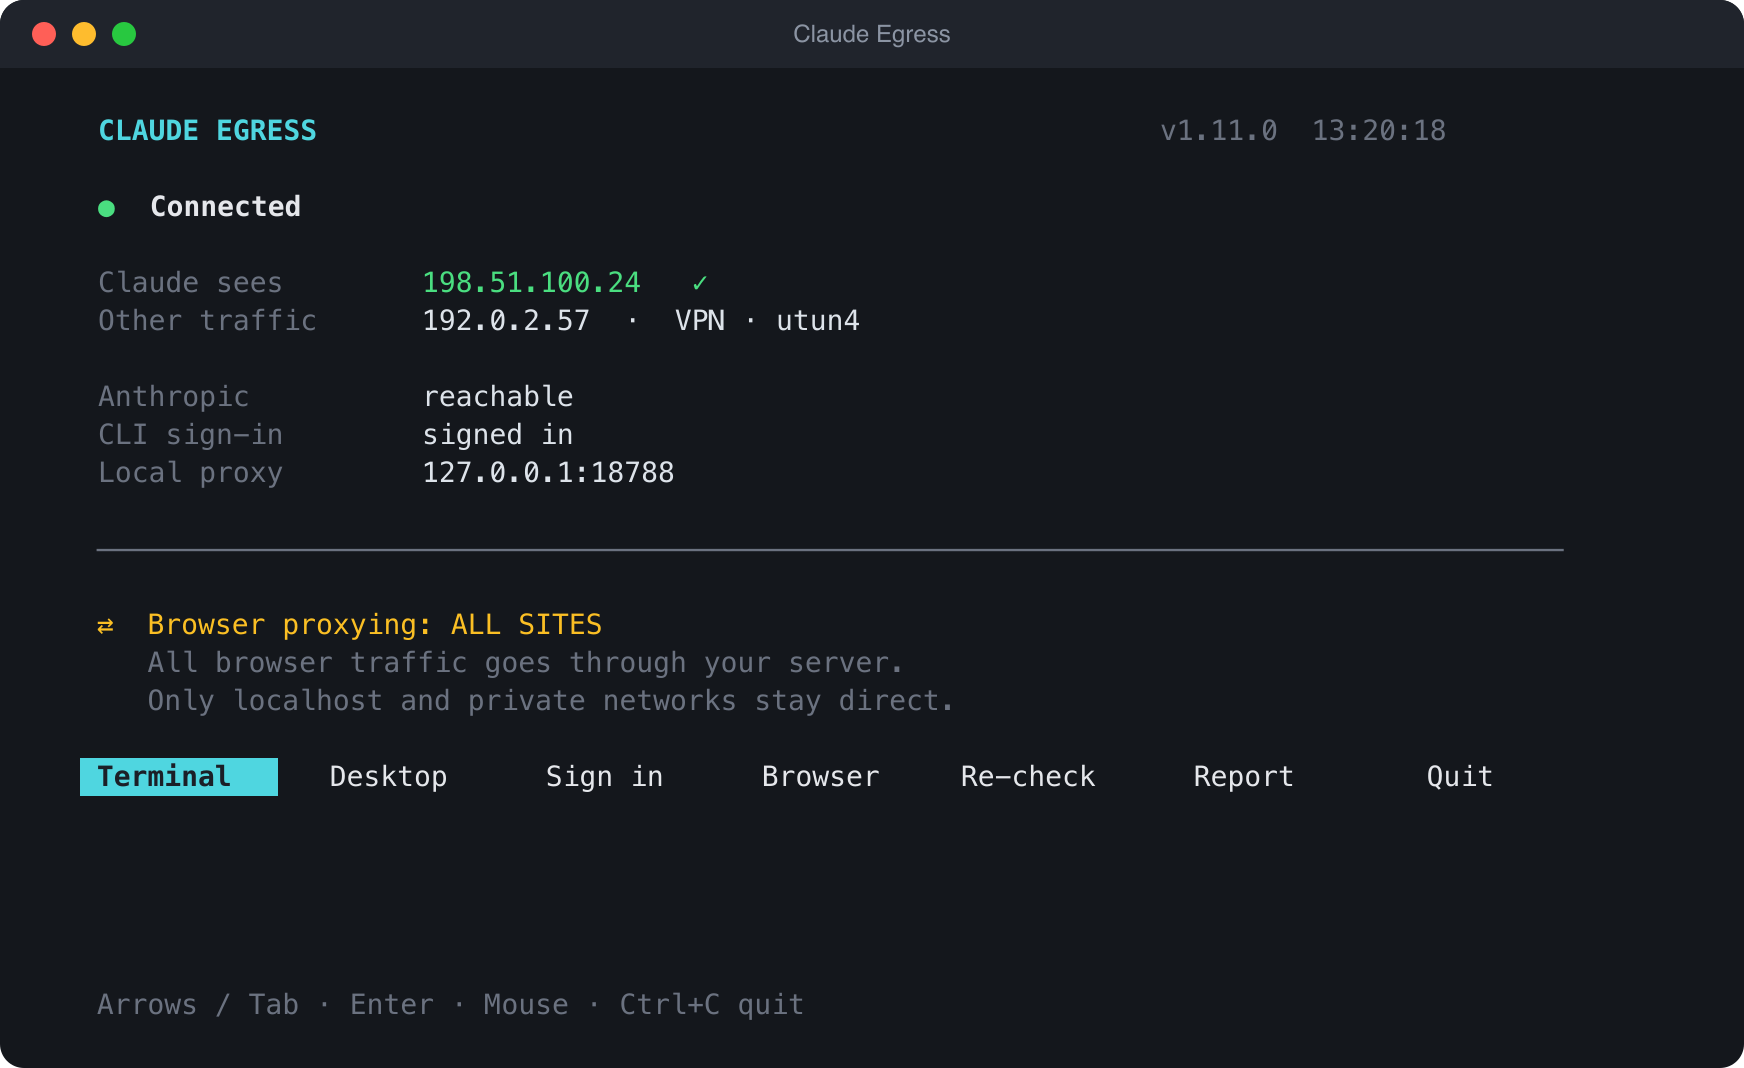
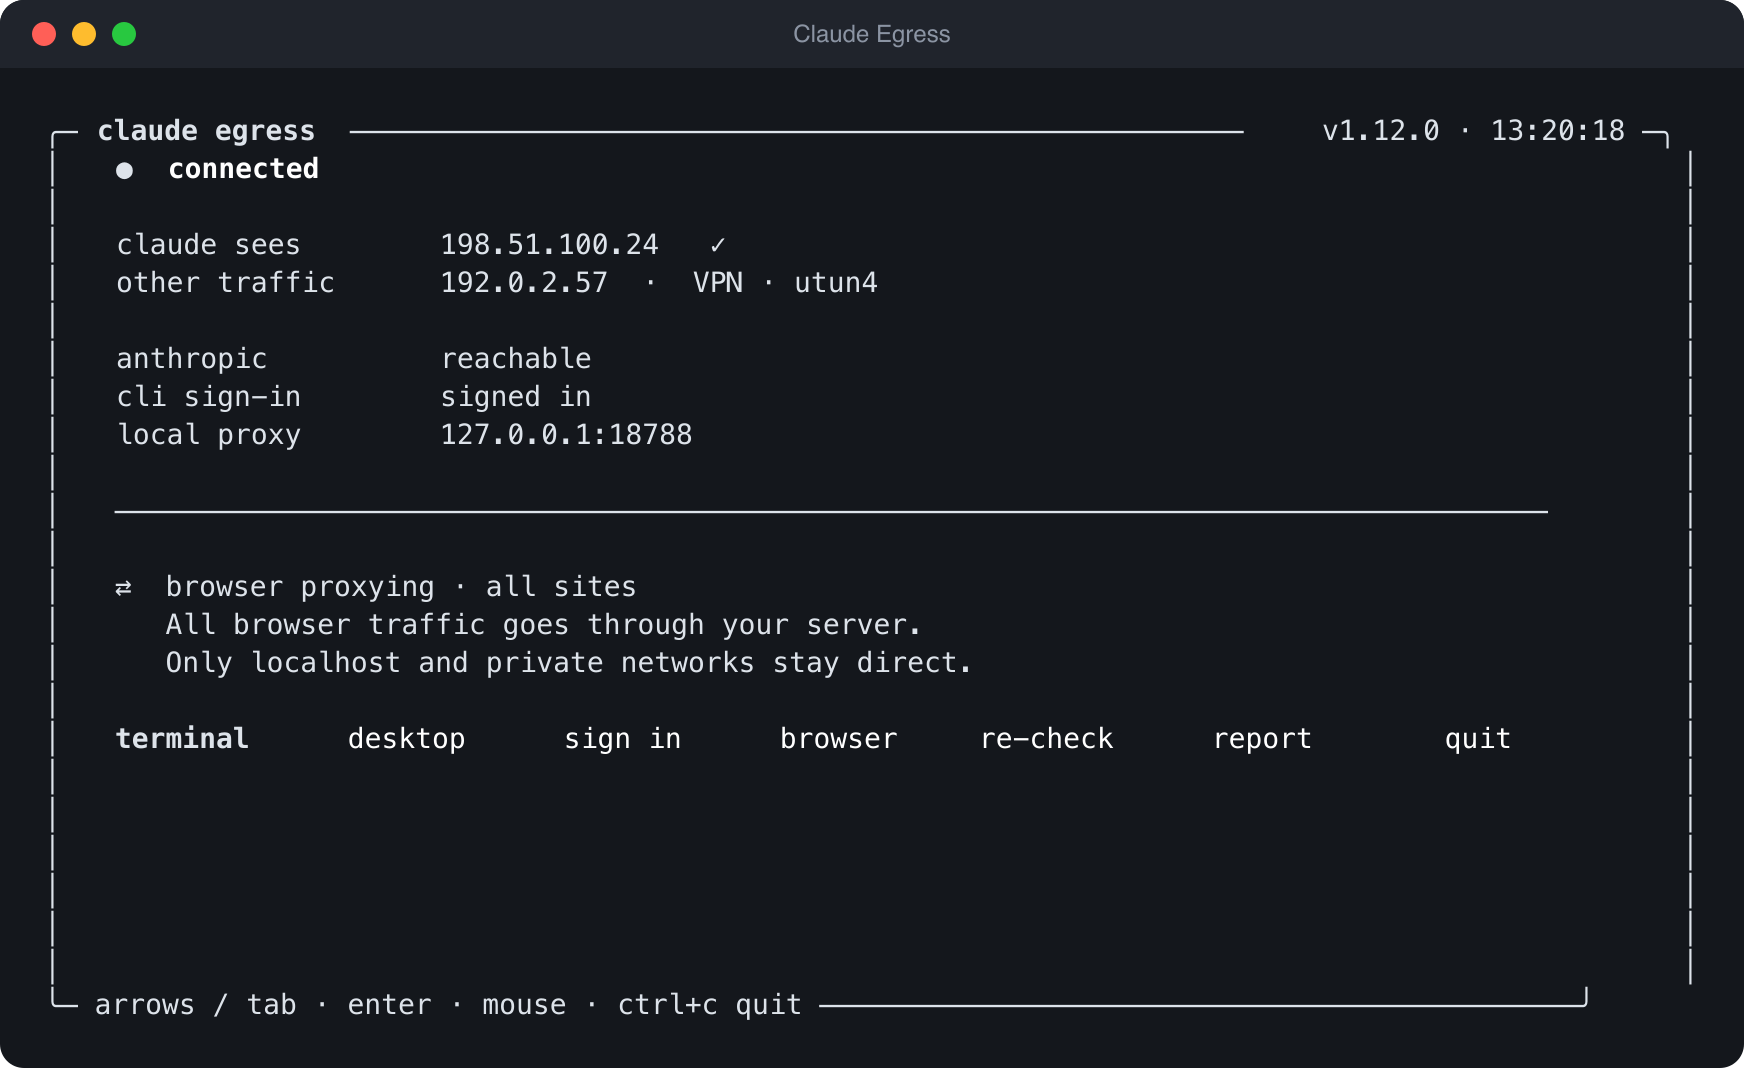
Claude Egress 1.12.0

diff --git a/CHANGELOG.md b/CHANGELOG.md
@@ -2,6 +2,21 @@
 
 Файл проверок — [ACCEPTANCE.md](ACCEPTANCE.md). Здесь только то, что меняется для пользователя.
 
+## 1.12.0
+
+- **Claude живёт ровно столько, сколько работает прокси.** Все сессии Claude Code
+  и Claude Desktop закрываются, если окно Claude Egress закрыто кнопкой Quit,
+  упало или было убито, если relay остановился, если через сервер перестали
+  отвечать и проверка IP, и Anthropic (две проверки подряд, около 10 секунд), или
+  если сервер показал не тот IP. Падение окна замечает сам relay и закрывает
+  Claude до того, как остановиться. Сбой одного сервиса (недоступен только ipify
+  или только Anthropic) Claude не закрывает: это не поломка прокси.
+- Ошибка отдельного соединения в логе (сайт отказал, нет IPv6) больше не красит
+  статус в красный; тревога — только при сбое самого relay.
+- Новый вид в цветах панелей Jarvis: одна скруглённая карточка на всё окно,
+  бирюзовый акцент, приглушённые подписи, строчные надписи, фон терминала.
+- `relay.log` создаётся и держится с правами 600: в нём адреса посещённых сайтов.
+
 ## 1.11.0
 
 - **Обновление больше не рвёт соединение.** Relay и браузерный PAC теперь
